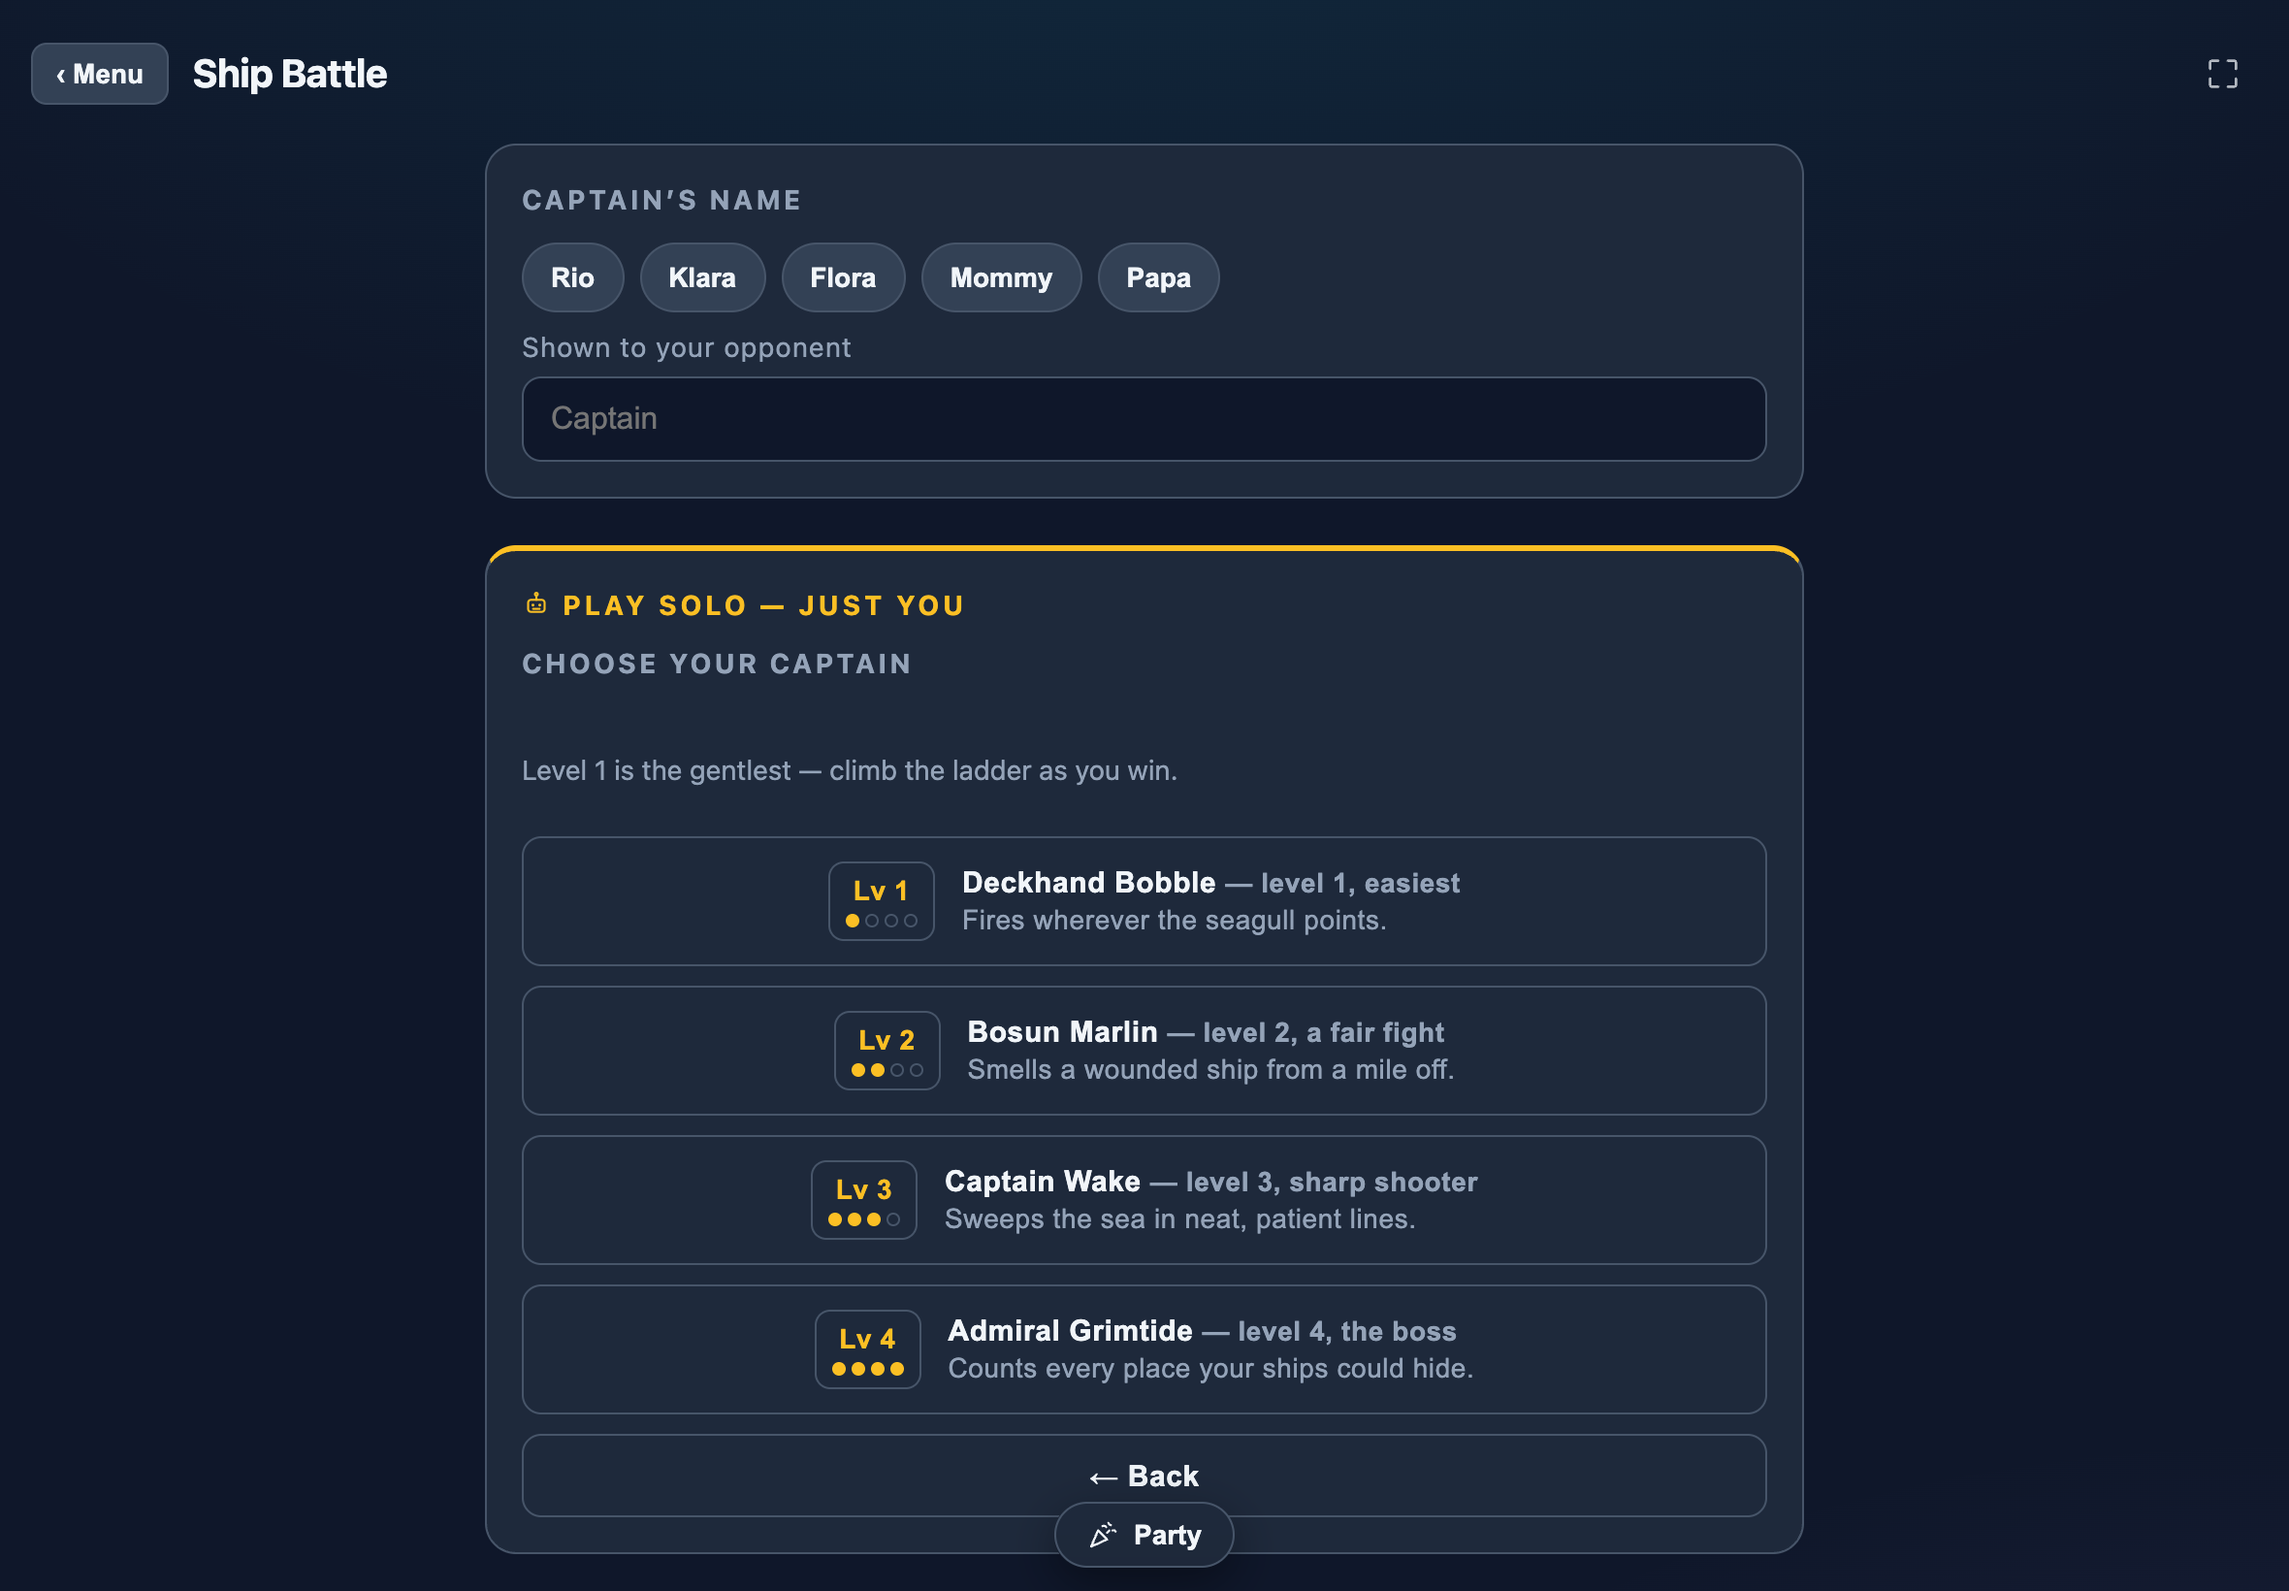
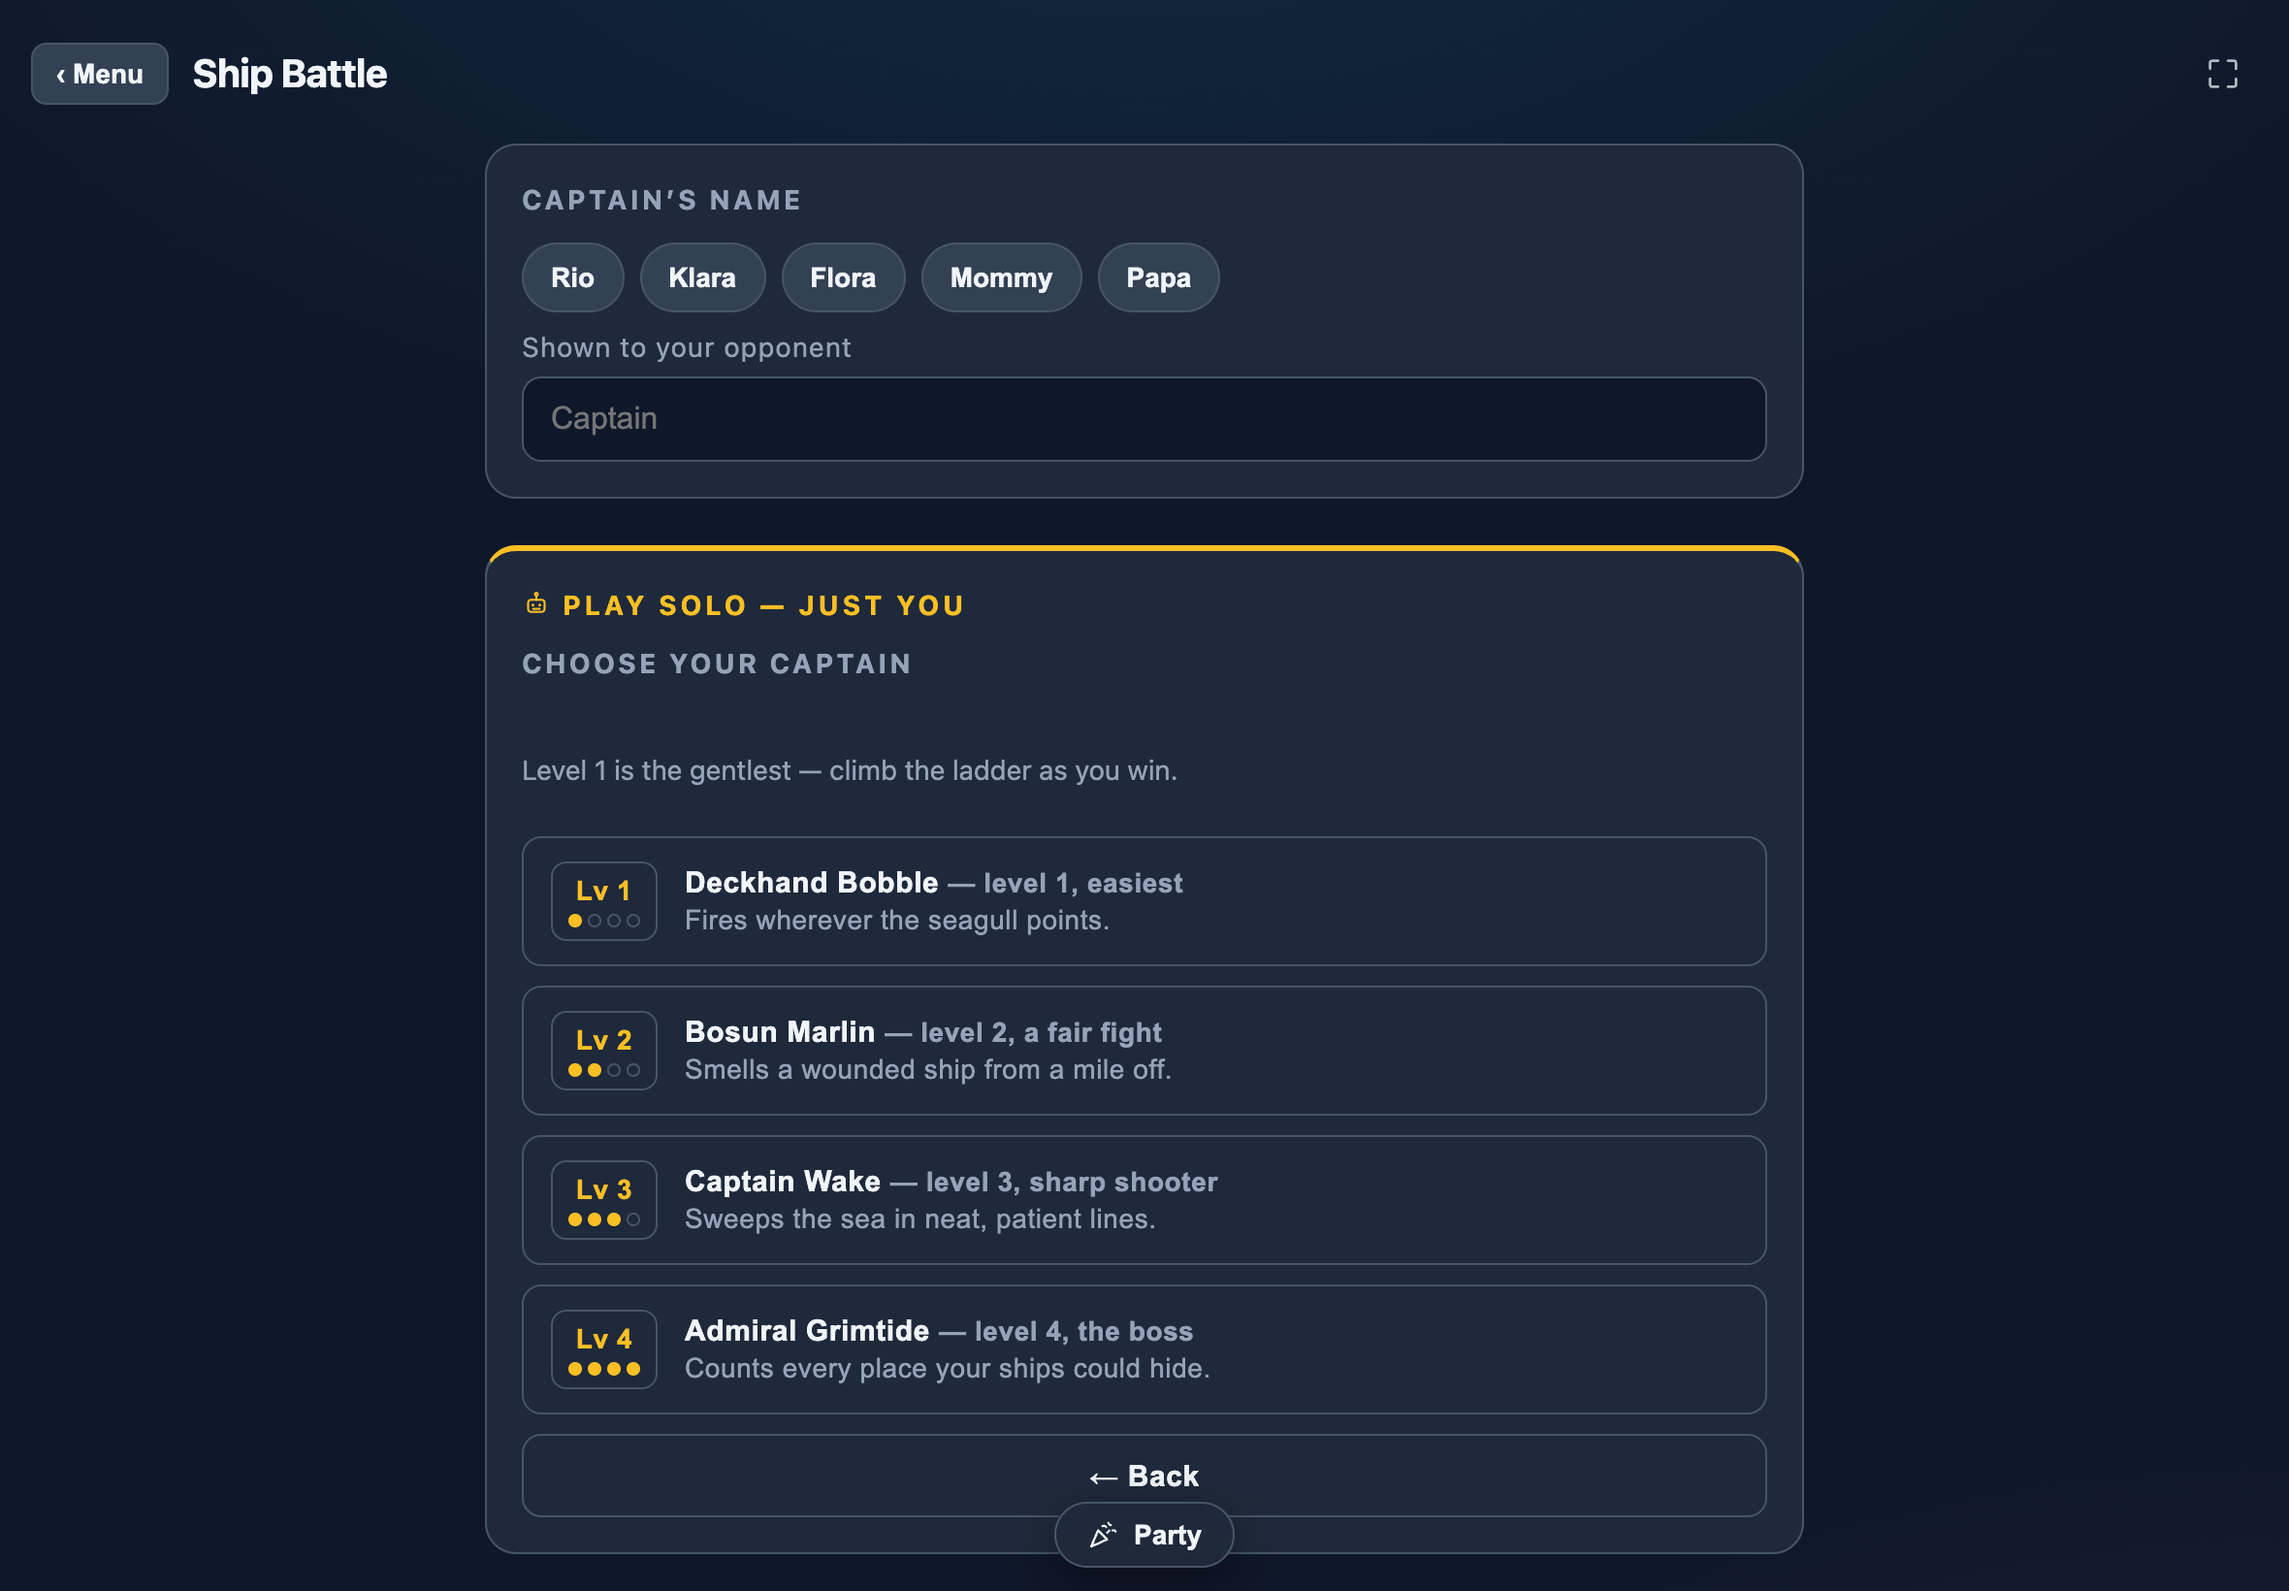
fix(battleship): soft smoke plumes and a straight captain ladder
The smoke over burning decks was an opaque lit sphere — it read as a dark
bucket floating above the fire. Smoke is now the same technique as the
flames: crossed sprites off a painted soft-puff texture, normal blending,
climbing off the flame tip while swelling and thinning, then re-forming.
Sunk hulls keep a heavier, darker plume hanging low. Reduced-motion holds
the mid-climb pose instead of animating.

The captain ladder rows inherited .btn's centred content, so each row's
level chip started at a different x. Rows now left-align: chips share an
edge, the text column takes the remaining width.

Claude-Session: https://claude.ai/code/session_0146VWPAYsAFebJ5DNhYKXg7

diff --git a/src/games/battleship/components/three/FleetScene.ts b/src/games/battleship/components/three/FleetScene.ts
@@ -36,6 +36,7 @@ export class FleetScene {
   private shipsGroup = new THREE.Group();
   private markGroup = new THREE.Group();
   private fires: THREE.Group[] = [];
+  private smokes: THREE.Group[] = [];
   private bobbing: THREE.Group[] = [];
   private water: THREE.Mesh;
   private waterBase: Float32Array;
@@ -159,6 +160,7 @@ export class FleetScene {
     this.shipsGroup.clear();
     this.markGroup.clear();
     this.fires = [];
+    this.smokes = [];
     this.bobbing = [];
 
     for (const ship of ships) {
@@ -201,7 +203,6 @@ export class FleetScene {
       }
       return 3;
     };
-    const smokeMat = new THREE.MeshStandardMaterial({ color: '#20242c', transparent: true, opacity: 0.7, roughness: 1 });
     const foamMat = new THREE.MeshBasicMaterial({ color: '#cfe8f2', transparent: true, opacity: 0.55 });
     for (let r = 0; r < BOARD_SIZE; r++) {
       for (let c = 0; c < BOARD_SIZE; c++) {
@@ -219,23 +220,26 @@ export class FleetScene {
           ring2.position.set(x, 0.07, z);
           this.markGroup.add(ring2);
         } else if (state === 'sunk') {
-          // A dead hull smoulders: low dark smoke, no live flame.
-          const smoke = new THREE.Mesh(new THREE.SphereGeometry(0.105, 12, 10), smokeMat);
-          smoke.position.set(x, 0.12, z);
-          smoke.scale.y = 1.4;
+          // A dead hull smoulders: heavy dark smoke hanging low, no live flame.
+          const smoke = buildSmoke(1.15, r * BOARD_SIZE + c, '#2b303a', 0.14, 0.16);
+          smoke.position.x = x;
+          smoke.position.z = z;
           this.markGroup.add(smoke);
+          this.smokes.push(smoke);
         } else {
           // A burning deck: crossed flame sprites sized to the ship, with a
-          // glowing base and smoke above. Flickered in the render loop.
+          // glowing base and a soft puff climbing off the tip. Both are
+          // animated in the render loop.
           const grew = 0.72 + 0.12 * shipSizeAt(r, c);
           const flame = buildFlame(grew, r * BOARD_SIZE + c);
           flame.position.set(x, 0.2, z);
           this.markGroup.add(flame);
           this.fires.push(flame);
-          const smoke = new THREE.Mesh(new THREE.SphereGeometry(0.07, 10, 8), smokeMat);
-          smoke.position.set(x, 0.28 + 0.34 * grew, z);
-          smoke.scale.set(1.1, 1.5, 1.1);
+          const smoke = buildSmoke(0.62 * grew, r * BOARD_SIZE + c + 37, '#3a3f4a', 0.24 + 0.5 * grew, 0.34);
+          smoke.position.x = x;
+          smoke.position.z = z;
           this.markGroup.add(smoke);
+          this.smokes.push(smoke);
         }
       }
     }
@@ -278,6 +282,19 @@ export class FleetScene {
         const s = 1 + 0.14 * Math.sin(now / 95 + seed) + 0.07 * Math.sin(now / 43 + seed * 2.7);
         flame.scale.set(base * s, base * (2.05 - s), base * s);
         flame.rotation.y = seed + now / 1600;
+      }
+      for (const smoke of this.smokes) {
+        const seed = smoke.userData.seed as number;
+        const base = smoke.userData.base as number;
+        const baseY = smoke.userData.baseY as number;
+        const rise = smoke.userData.rise as number;
+        const mat = smoke.userData.mat as THREE.MeshBasicMaterial;
+        // Each puff climbs off its fire, swelling and thinning, then re-forms.
+        const t = (now / 2600 + seed) % 1;
+        smoke.position.y = baseY + rise * t;
+        smoke.scale.setScalar(base * (0.85 + 0.55 * t));
+        mat.opacity = 0.5 * Math.sin(Math.PI * t);
+        smoke.rotation.y = seed + now / 2300;
       }
     }
 
@@ -379,6 +396,73 @@ function buildFlame(base: number, seed: number): THREE.Group {
   group.userData.base = base;
   group.userData.seed = seed * 0.73;
   group.scale.setScalar(base);
+  return group;
+}
+
+let smokeTextureCache: THREE.CanvasTexture | null = null;
+
+/**
+ * A soft smoke puff: overlapping blurred blobs fading to nothing at the edge,
+ * painted white so the material's colour supplies the grey. Drawn once and
+ * shared by every plume on the board.
+ */
+function smokeTexture(): THREE.CanvasTexture {
+  if (smokeTextureCache) return smokeTextureCache;
+  const size = 96;
+  const canvas = document.createElement('canvas');
+  canvas.width = size;
+  canvas.height = size;
+  const ctx = canvas.getContext('2d')!;
+  const blobs: Array<[number, number, number, number]> = [
+    [0.5, 0.52, 0.34, 0.55],
+    [0.36, 0.42, 0.22, 0.4],
+    [0.64, 0.4, 0.2, 0.4],
+    [0.5, 0.66, 0.24, 0.35],
+  ];
+  for (const [bx, by, radius, alpha] of blobs) {
+    const g = ctx.createRadialGradient(bx * size, by * size, 1, bx * size, by * size, radius * size);
+    g.addColorStop(0, `rgba(255, 255, 255, ${alpha})`);
+    g.addColorStop(0.6, `rgba(255, 255, 255, ${alpha * 0.45})`);
+    g.addColorStop(1, 'rgba(255, 255, 255, 0)');
+    ctx.fillStyle = g;
+    ctx.fillRect(0, 0, size, size);
+  }
+  const tex = new THREE.CanvasTexture(canvas);
+  smokeTextureCache = tex;
+  return tex;
+}
+
+/**
+ * A smoke plume: two crossed soft-puff sprites (normal blending — smoke
+ * shades, it doesn't glow). The render loop walks it from `baseY` up through
+ * `rise`, swelling and thinning as it climbs; without motion it holds the
+ * mid-climb pose so reduced-motion players still see smoke, not a freeze at
+ * an odd instant.
+ */
+function buildSmoke(base: number, seed: number, tint: string, baseY: number, rise: number): THREE.Group {
+  const group = new THREE.Group();
+  const mat = new THREE.MeshBasicMaterial({
+    map: smokeTexture(),
+    color: tint,
+    transparent: true,
+    opacity: 0.5,
+    depthWrite: false,
+    side: THREE.DoubleSide,
+  });
+  const geo = new THREE.PlaneGeometry(0.5, 0.5);
+  for (let i = 0; i < 2; i++) {
+    const puff = new THREE.Mesh(geo, mat);
+    puff.rotation.y = (i * Math.PI) / 2 + (seed % 5) * 0.4;
+    group.add(puff);
+  }
+  group.userData.base = base;
+  group.userData.seed = seed * 0.61;
+  group.userData.baseY = baseY;
+  group.userData.rise = rise;
+  group.userData.mat = mat;
+  // The static (reduced-motion) pose: mid-climb, mid-swell.
+  group.position.y = baseY + rise * 0.45;
+  group.scale.setScalar(base * 1.1);
   return group;
 }
 

diff --git a/src/games/battleship/styles/battleship.css b/src/games/battleship/styles/battleship.css
@@ -461,14 +461,15 @@
 .lobby-door-solo .lobby-eyebrow { color: #fbbf24; }
 .btn-amber { border-color: #fbbf24; color: #fbbf24; background: rgba(251, 191, 36, 0.09); }
 
-/* Captain ladder rows: a level chip with pips, then name + what it means. */
+/* Captain ladder rows: a level chip with pips, then name + what it means.
+   .btn centres its content; these rows left-align so the chips share an edge. */
 .lobby-captain {
-  display: flex; flex-direction: row; align-items: center; gap: 14px;
+  display: flex; flex-direction: row; align-items: center; justify-content: flex-start; gap: 14px;
   text-align: left; padding: 12px 14px;
 }
 .lobby-captain-level {
   display: flex; flex-direction: column; align-items: center; gap: 4px;
-  min-width: 52px; padding: 6px 8px;
+  min-width: 52px; padding: 6px 8px; flex-shrink: 0;
   border: 1px solid var(--border); border-radius: 8px; background: var(--surface);
   font-size: 14px; color: #fbbf24;
 }
@@ -478,7 +479,7 @@
   background: var(--surface); border: 1px solid var(--border);
 }
 .lobby-captain-pips i.on { background: #fbbf24; border-color: #fbbf24; }
-.lobby-captain-who { display: flex; flex-direction: column; gap: 3px; min-width: 0; }
+.lobby-captain-who { display: flex; flex-direction: column; gap: 3px; min-width: 0; flex: 1; }
 .lobby-captain-rank { font-style: normal; font-weight: 600; color: var(--muted); font-size: 14px; }
 .lobby-captain-tag { font-size: 14px; font-weight: 400; }
 
